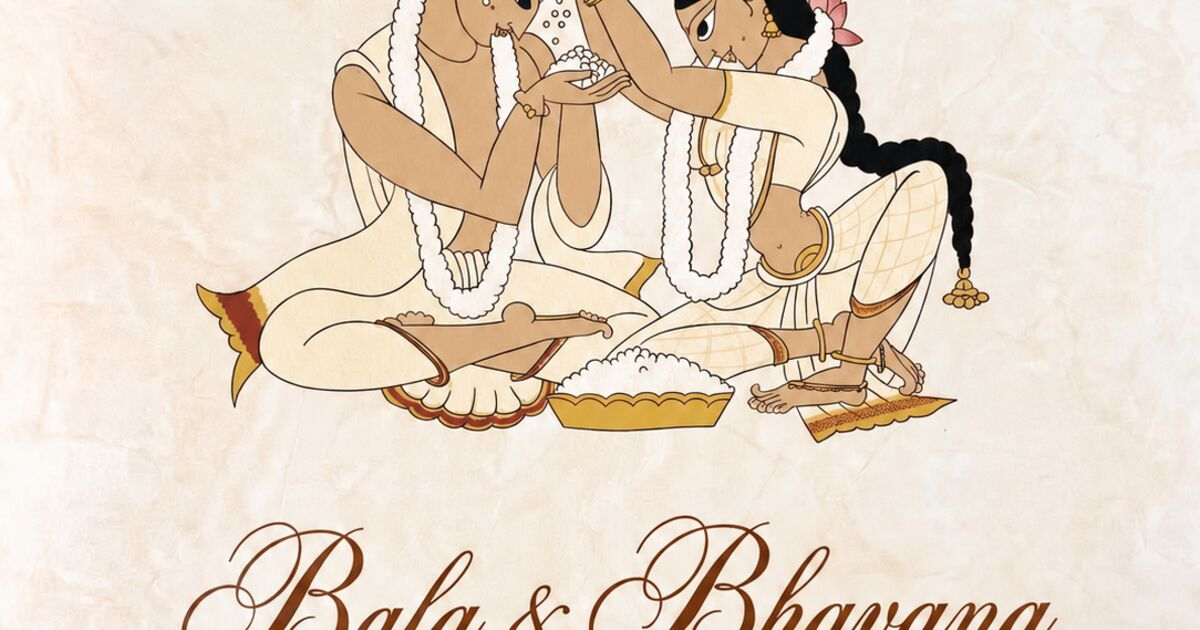
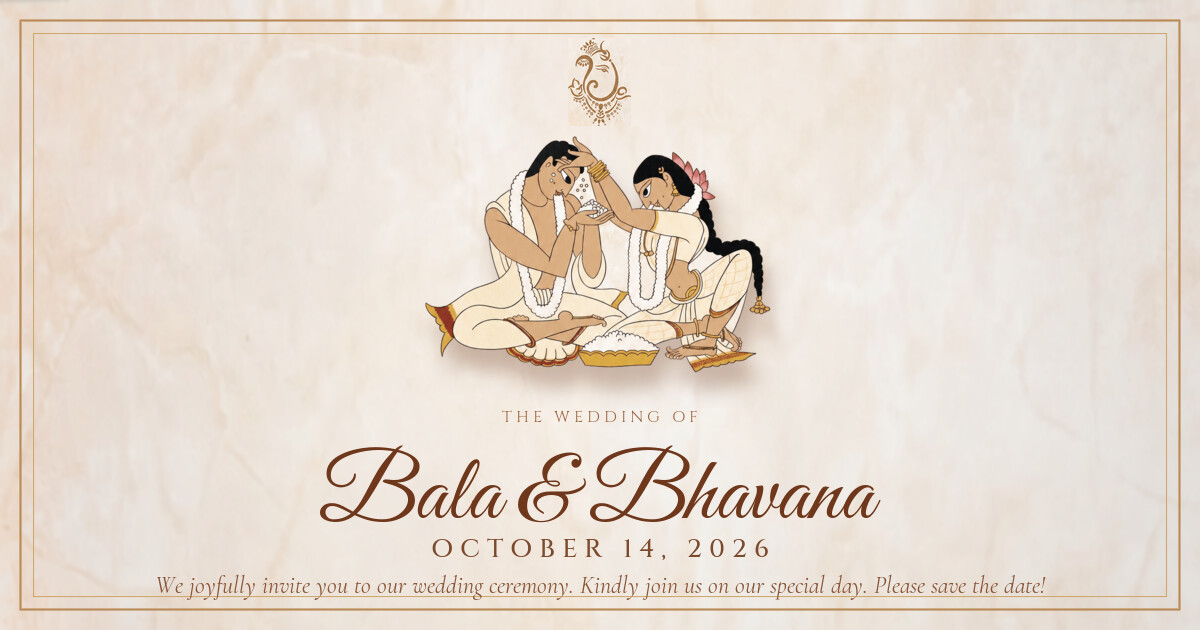
OG card: full-bleed 1200x630 landscape design (no crop), premium typeset, simpler description
- Rebuilt og-social.jpg as a true 1200x630 card so WhatsApp's landscape
  preview shows the ENTIRE design (the old image was a center-cropped
  strip of the portrait card, cutting off the couple and the names)
- Couple illustration extracted as a clean cutout with soft shadow,
  Ganesha ornament + real paper texture + double gold frame
- Typeset with the site's own fonts: Great Vibes names, Cinzel date,
  Cormorant Garamond italic invitation note
- og:description simplified to the short invite note

diff --git a/index.html b/index.html
@@ -7,7 +7,7 @@
   <meta name="description" content="You're invited! Bala weds Bhavana — 12 &amp; 14 October 2026, Kakinada &amp; Kaikaluru. Tap to open your wedding invitation." />
   <meta property="og:type" content="website" />
   <meta property="og:title" content="💌 You're Invited — Bala weds Bhavana" />
-  <meta property="og:description" content="12 &amp; 14 October 2026 · Kakinada &amp; Kaikaluru. Pelli Koduku &amp; Pelli Kuthuru, Reception &amp; Vivaha — tap to open your invitation." />
+  <meta property="og:description" content="We joyfully invite you to our wedding ceremony. Kindly join us on our special day. October 14th 2026. Please save the date!" />
   <meta property="og:image" content="https://bala-weds-bhavana.netlify.app/assets/og-social.jpg" />
   <meta property="og:url" content="https://bala-weds-bhavana.netlify.app/" />
   <meta name="twitter:card" content="summary_large_image" />
